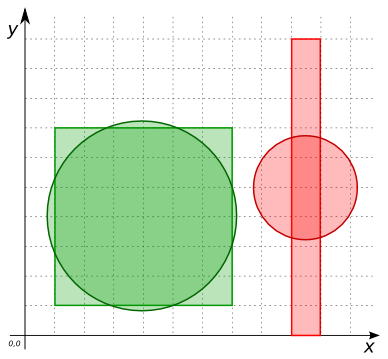
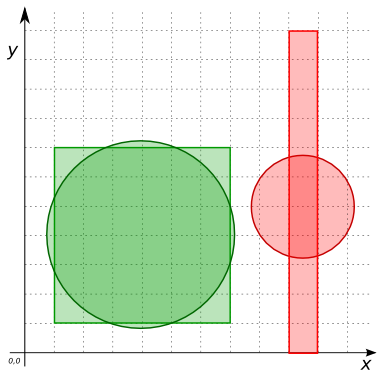
Update doc and image of ST_CompactnessRatio

diff --git a/docs/dev/ST_CompactnessRatio.md b/docs/dev/ST_CompactnessRatio.md
@@ -2,7 +2,7 @@
 layout: docs
 title: ST_CompactnessRatio
 category: h2spatial-ext/properties
-description: Returns the ratio of this computed perimeter to the given <CODE>POLYGON</CODE>'s perimeter
+description: Return the square root of a <code>POLYGON</code>'s area divided by the area of the circle with circumference equal to its perimeter
 prev_section: ST_3DLength
 next_section: ST_CoordDim
 permalink: /docs/dev/ST_CompactnessRatio/
@@ -21,15 +21,15 @@ double ST_CompactnessRatio(POLYGON poly)
 Equivalent definition: `ST_CompactnessRatio` returns the square root of the `POLYGON`'s area divided by the area of the circle with circumference equal to the `POLYGON`'s perimeter.
 
 Note: This uses the 2D perimeter/area of the `POLYGON`.
-    This function is not made for other `POLYGON` Geometry
+This function accepts only `POLYGON`s.
 
 ### Examples
 
 {% highlight mysql %}
 CREATE TABLE input_table(geom Geometry);
 INSERT INTO input_table VALUES
-    (ST_GeomFromText('POLYGON ((9 0, 9 10, 10 10, 10 0, 9 0))')),
-    (ST_GeomFromText('POLYGON ((1 1, 1 7, 7 7, 7 1, 1 1))'));
+    ('POLYGON ((9 0, 9 11, 10 11, 10 0, 9 0))'),
+    ('POLYGON ((1 1, 1 7, 7 7, 7 1, 1 1))');
 SELECT ST_CompactnessRatio(geom) ratio FROM input_table;
 -- Answer:
 --    |         RATIO       |
@@ -37,18 +37,22 @@ SELECT ST_CompactnessRatio(geom) ratio FROM input_table;
 --    | 0.48988036513951067 |
 --    |  0.886226925452758  |
 {% endhighlight %}
-                  Perimeter geomA = Perimeter geomB
+
+*Note*: In this example, both geometries have a perimeter of 24.
+
 <img class="displayed" src="../ST_CompactnessRatio.png"/>
 
 {% highlight mysql %}
 SELECT ST_CompactnessRatio(ST_Buffer(('POINT(1 2)'), 10));
 -- Answer: 0.9983912919723259
 
-SELECT ST_CompactnessRatio('POLYGON ((4 12, 1 6, 6 3, 15 2, 17 5, 16 10, 9 14, 4 12), 
+SELECT ST_CompactnessRatio(
+    'POLYGON ((4 12, 1 6, 6 3, 15 2, 17 5, 16 10, 9 14, 4 12), 
     (7 9, 6 7, 10 6, 10 8, 7 9))');
 -- Answer: 0.7142366622175312
 
-SELECT ST_CompactnessRatio('POLYGON((0 0 0, 3 0 0, 3 2 0, 0 2 1, 0 0 0))');
+SELECT ST_CompactnessRatio(
+    'POLYGON((0 0 0, 3 0 0, 3 2 0, 0 2 1, 0 0 0))');
 -- Answer: 0.8683215054699213
 
 SELECT ST_CompactnessRatio('POINT(1 2)');
